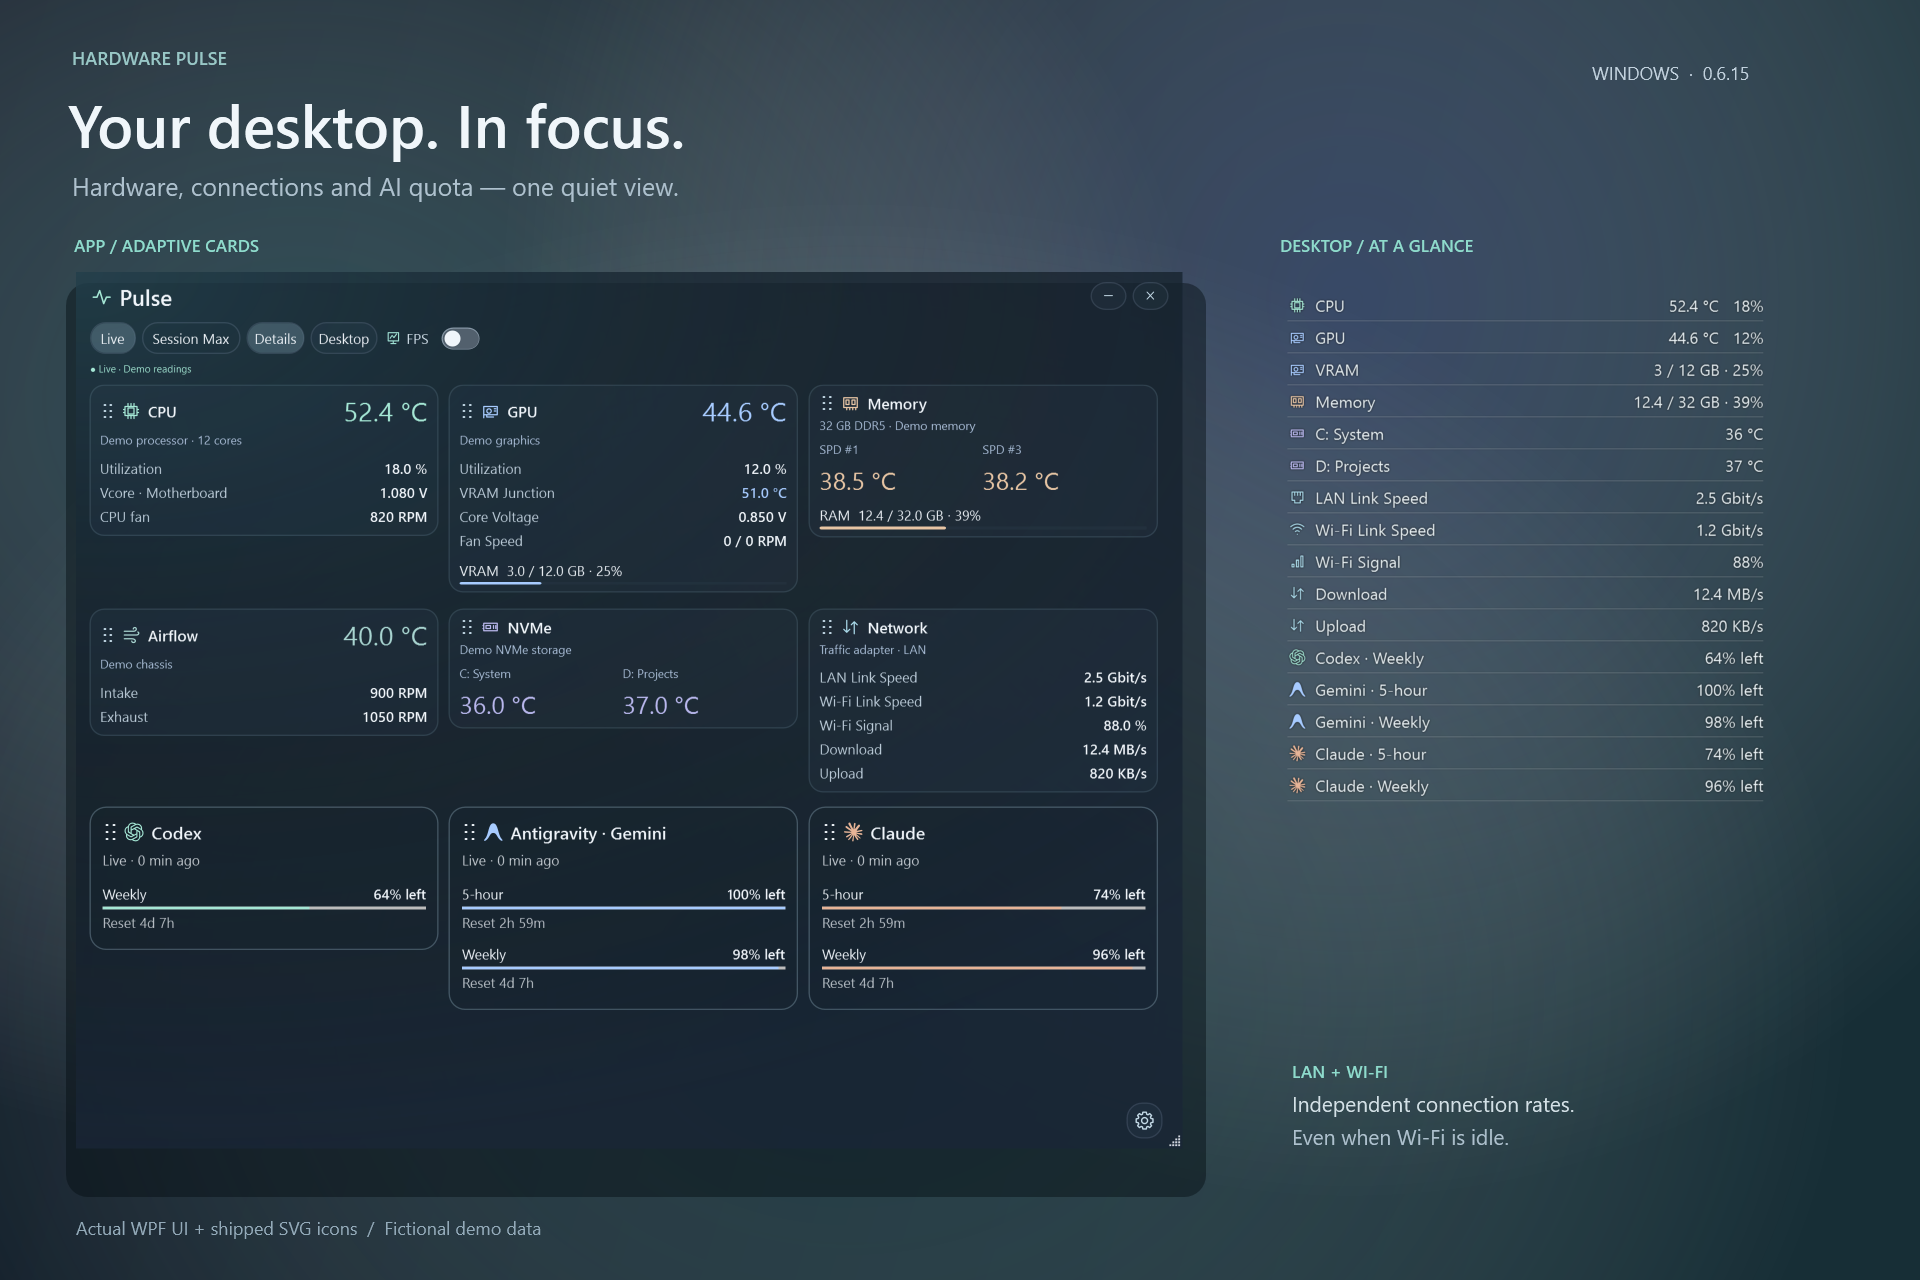
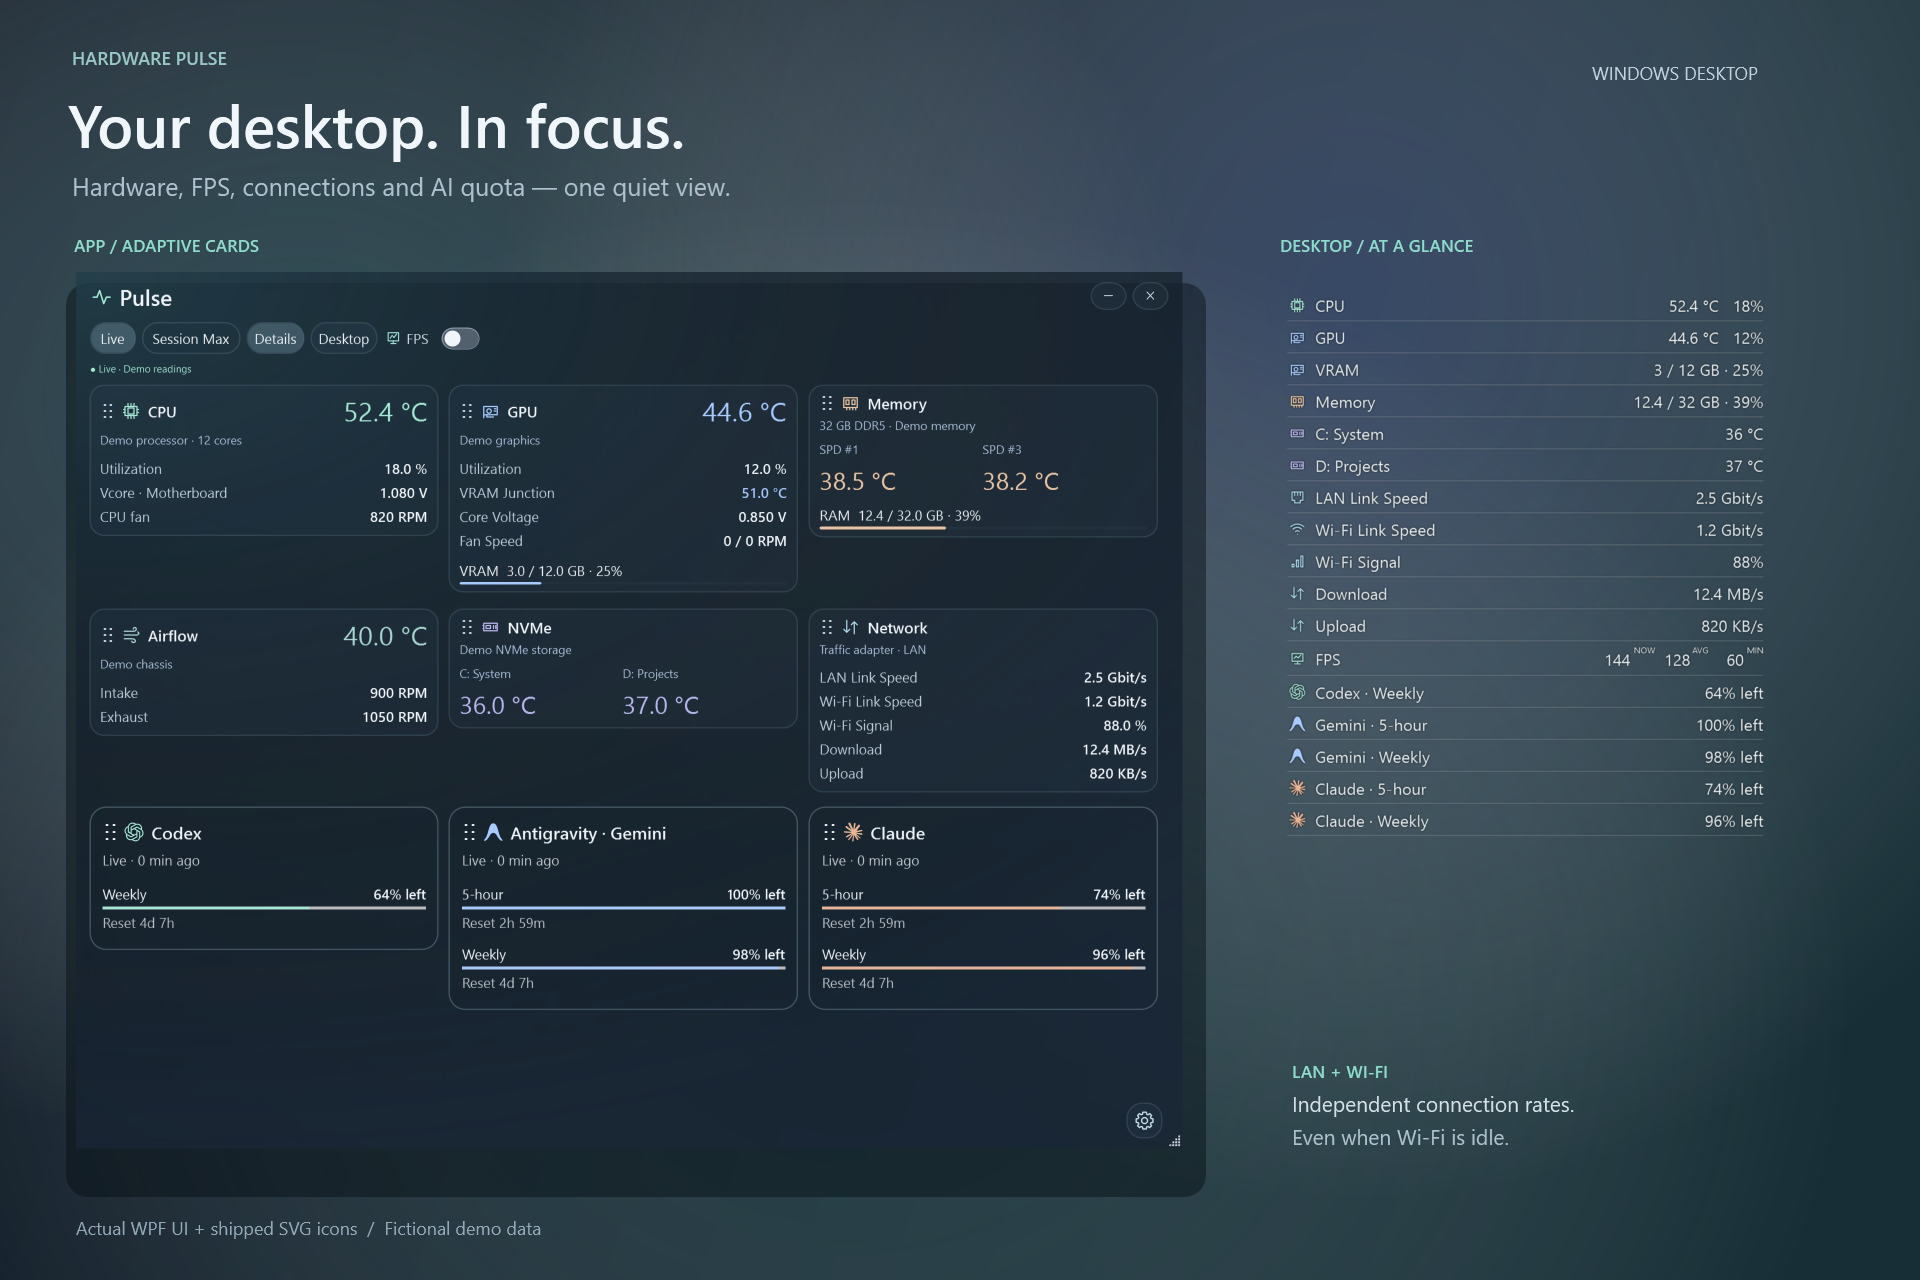
Refresh timeless hero and add illustrated usage guides

diff --git a/docs/QUICKSTART.md b/docs/QUICKSTART.md
@@ -1,0 +1,27 @@
+# Pulse visual quick guides / 操作示意图
+
+These images use the real WPF interface and shipped SVG icons with fictional demo data. They do not include personal readings or account information. [Render source](../scripts/Render-Hero.ps1).
+
+## Desktop: move, resize, lock
+
+Choose **Edit Desktop** from the system tray. Drag a reading to move the panel, or an edge/corner to resize. Click **Lock Desktop** to finish; unlock again through the tray. Locked panels let clicks pass through.
+
+在 system tray 选择 **Edit Desktop**，拖动文字移动面板，拖动边缘或角落 resize。完成后点击 **Lock Desktop**；再次编辑时从 tray 解锁。
+
+![Desktop move, resize and lock guide](showcase/desktop-edit-guide.png)
+
+## Screenshot mode
+
+Local Contrast can exclude Pulse from captures. Select **Screenshot mode · 15 seconds** in the tray or **Settings → Desktop**. Press **Win + Shift + S** within 15 seconds. Current colors are frozen temporarily, then Local Contrast resumes automatically.
+
+Local Contrast 开启后如截图看不到 Pulse，可先开启 **Screenshot mode**，15 秒内按 **Win + Shift + S**；随后自动恢复。
+
+![Screenshot mode guide](showcase/screenshot-guide.png)
+
+## App controls and FPS
+
+**Details** reveals extra readings. **Desktop** opens the wallpaper panel. The App **FPS** switch controls the separate FPS overlay. To show FPS inside Desktop without that overlay, enable its reading in **Settings → Desktop**; choose the capture target in **Settings → FPS**. FPS badges mean current, rolling average and rolling minimum—not 1% Low.
+
+**Details** 显示更多读数。Desktop 内的 FPS reading 可独立开启，无需开启单独的 FPS overlay。`NOW / AVG / MIN` 分别为当前、滚动平均和滚动最低 FPS。
+
+![App controls and FPS guide](showcase/app-controls-guide.png)

diff --git a/README.md b/README.md
@@ -6,6 +6,8 @@
 
 [Changelog / 更新记录](CHANGELOG.md)
 
+[Visual quick guides / 操作示意图](docs/QUICKSTART.md) — Desktop move/resize/lock · Screenshot mode · App controls and FPS
+
 [MIT License](LICENSE) · [Privacy policy](PRIVACY.md) · [Code signing policy](SIGNING.md)
 
 [Dependency maintenance and Linux/macOS roadmap](docs/DEPENDENCIES.md)
